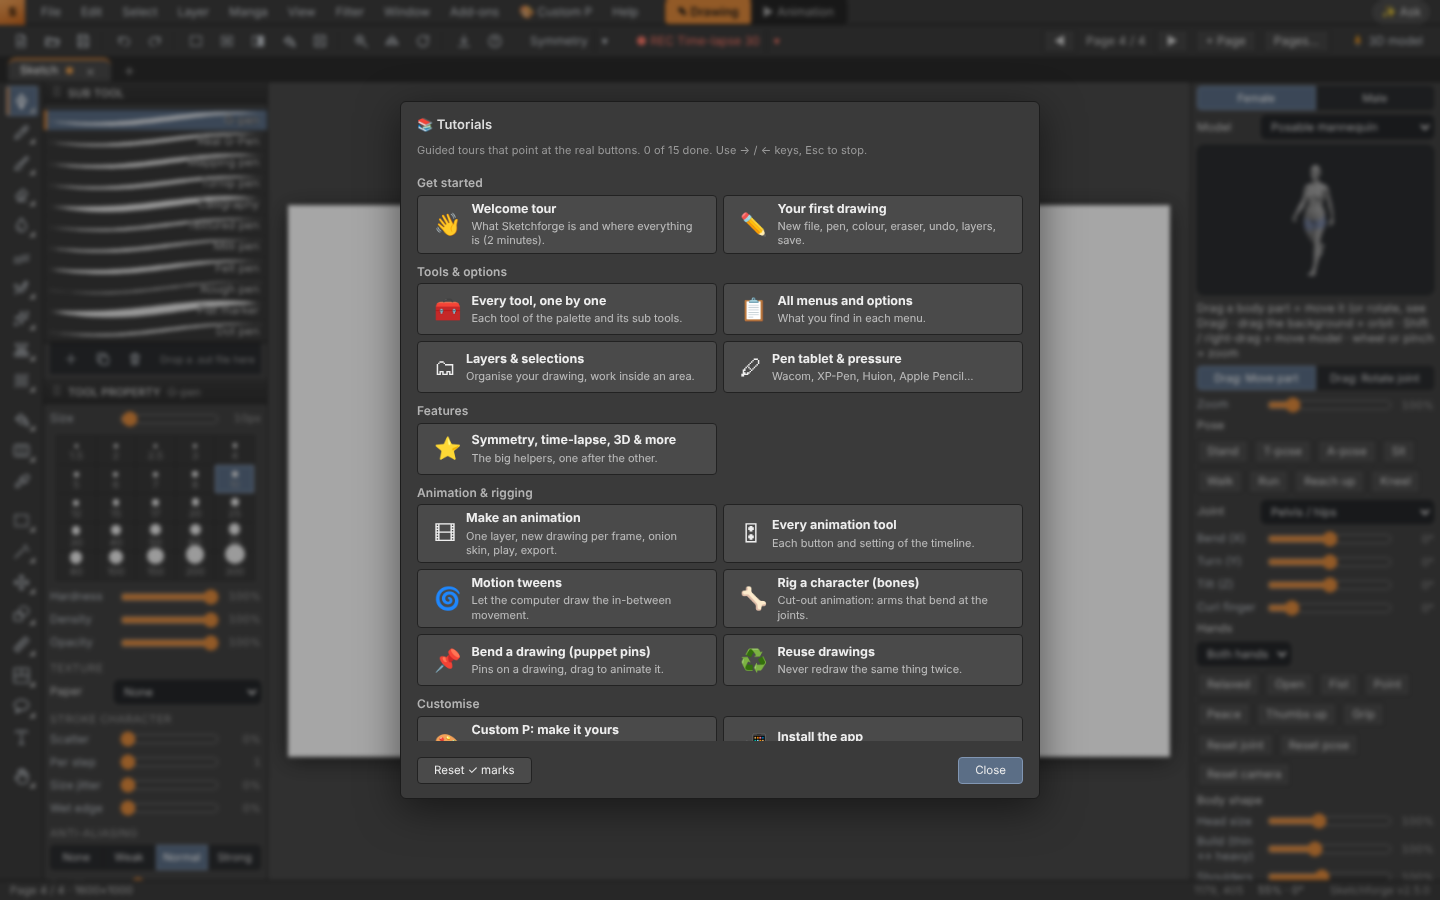
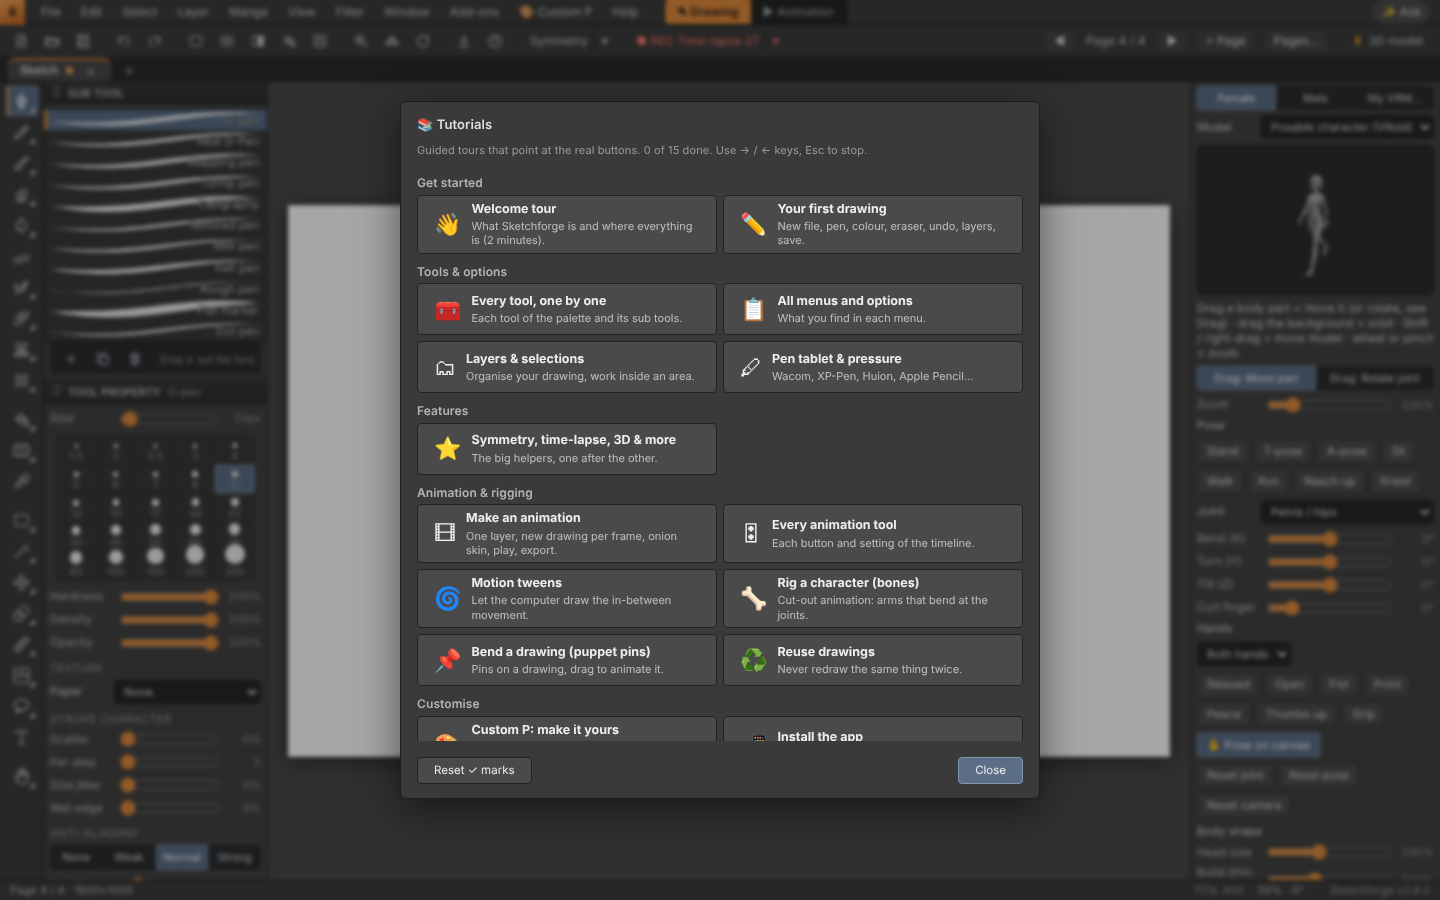
[release] Sketchforge 2.8.0: VRoid 3D characters, Load VRM, pose the 3D model on the canvas
Claude-Session: https://claude.ai/code/session_0146CUBEvuBvv8RiKvoGK6gw

diff --git a/app.js b/app.js
@@ -8126,7 +8126,7 @@ function markSel() {
   for (const p of M3.parts) {
     if (p.userData.rigged) {
       // tint the vertices that mostly follow the selected joint
-      const sel = p.userData.boneNames.indexOf(M3.sel), dom = p.userData.dom, col = p.geometry.attributes.color;
+      const sel = M3.selShown ? p.userData.boneNames.indexOf(M3.sel) : -1, dom = p.userData.dom, col = p.geometry.attributes.color;
       for (let i = 0; i < dom.length; i++) { const on = dom[i] === sel; col.setXYZ(i, on ? 0.62 : 1, on ? 0.76 : 1, on ? 1.18 : 1); }
       col.needsUpdate = true;
     } else if (p.material.emissive) p.material.emissive.setHex(p.userData.joint === M3.sel ? 0x2a4f8f : 0x000000);
@@ -8245,7 +8245,7 @@ function bindPoseSurface(cv, big) {
     M3.lastHit = null;
     const hit = pick(e, cv);
     drag = { x: e.clientX, y: e.clientY, mode: e.shiftKey || e.button === 2 ? 'pan' : hit ? 'joint' : 'orbit' };
-    if (hit && drag.mode === 'joint') { M3.sel = hit; markSel(); buildJointUI(); if (big) poseBarLabel(); }
+    if (hit && drag.mode === 'joint') { M3.sel = hit; M3.selShown = true; markSel(); buildJointUI(); if (big) poseBarLabel(); }
     // move mode: the grabbed point of the part follows the pointer (inverse kinematics); the hips move the whole model
     if (hit && drag.mode === 'joint' && M3.dragMode === 'move' && M3.lastHit && riggedMesh()) {
       if (hit === 'pelvis') drag.mode = 'pan';
@@ -8368,7 +8368,7 @@ function build3DPanel() {
   $('#m3dKind').onchange = e => {
     if (e.target.value === 'simple' || e.target.value === 'mannequin') { M3.kind = 'mannequin'; M3.style = e.target.value === 'simple' ? 'simple' : 'vroid'; if (M3.style === 'simple' && M3.gender === 'custom') M3.gender = 'female'; syncModelButtons(); rebuildModel(); fitModel(); return; }
     M3.kind = e.target.value; if (M3.kind === 'import' && !M3.imported) { pickFile('.glb,.gltf,.obj', f => importModelFile(f).catch(err => toast(err.message))); M3.kind = 'mannequin'; e.target.value = 'mannequin'; return; } rebuildModel(); fitModel(); };
-  $('#m3dJointSel').onchange = e => { M3.sel = e.target.value; markSel(); syncJointSliders(); render3D(); };
+  $('#m3dJointSel').onchange = e => { M3.sel = e.target.value; M3.selShown = true; markSel(); syncJointSliders(); render3D(); };
   ['X', 'Y', 'Z'].forEach(a => $('#m3d' + a).oninput = setJointEuler);
   $('#m3dResetJ').onclick = () => { const j = M3.joints[M3.sel]; if (j) { j.quaternion.identity(); syncJointSliders(); render3D(); } };
   $('#m3dResetAll').onclick = () => { for (const k in M3.joints) M3.joints[k].quaternion.identity(); M3.root.position.set(0, 0, 0); syncJointSliders(); render3D(); };

diff --git a/parts/p10y_3d.js b/parts/p10y_3d.js
@@ -170,7 +170,7 @@ function markSel() {
   for (const p of M3.parts) {
     if (p.userData.rigged) {
       // tint the vertices that mostly follow the selected joint
-      const sel = p.userData.boneNames.indexOf(M3.sel), dom = p.userData.dom, col = p.geometry.attributes.color;
+      const sel = M3.selShown ? p.userData.boneNames.indexOf(M3.sel) : -1, dom = p.userData.dom, col = p.geometry.attributes.color;
       for (let i = 0; i < dom.length; i++) { const on = dom[i] === sel; col.setXYZ(i, on ? 0.62 : 1, on ? 0.76 : 1, on ? 1.18 : 1); }
       col.needsUpdate = true;
     } else if (p.material.emissive) p.material.emissive.setHex(p.userData.joint === M3.sel ? 0x2a4f8f : 0x000000);
@@ -289,7 +289,7 @@ function bindPoseSurface(cv, big) {
     M3.lastHit = null;
     const hit = pick(e, cv);
     drag = { x: e.clientX, y: e.clientY, mode: e.shiftKey || e.button === 2 ? 'pan' : hit ? 'joint' : 'orbit' };
-    if (hit && drag.mode === 'joint') { M3.sel = hit; markSel(); buildJointUI(); if (big) poseBarLabel(); }
+    if (hit && drag.mode === 'joint') { M3.sel = hit; M3.selShown = true; markSel(); buildJointUI(); if (big) poseBarLabel(); }
     // move mode: the grabbed point of the part follows the pointer (inverse kinematics); the hips move the whole model
     if (hit && drag.mode === 'joint' && M3.dragMode === 'move' && M3.lastHit && riggedMesh()) {
       if (hit === 'pelvis') drag.mode = 'pan';
@@ -412,7 +412,7 @@ function build3DPanel() {
   $('#m3dKind').onchange = e => {
     if (e.target.value === 'simple' || e.target.value === 'mannequin') { M3.kind = 'mannequin'; M3.style = e.target.value === 'simple' ? 'simple' : 'vroid'; if (M3.style === 'simple' && M3.gender === 'custom') M3.gender = 'female'; syncModelButtons(); rebuildModel(); fitModel(); return; }
     M3.kind = e.target.value; if (M3.kind === 'import' && !M3.imported) { pickFile('.glb,.gltf,.obj', f => importModelFile(f).catch(err => toast(err.message))); M3.kind = 'mannequin'; e.target.value = 'mannequin'; return; } rebuildModel(); fitModel(); };
-  $('#m3dJointSel').onchange = e => { M3.sel = e.target.value; markSel(); syncJointSliders(); render3D(); };
+  $('#m3dJointSel').onchange = e => { M3.sel = e.target.value; M3.selShown = true; markSel(); syncJointSliders(); render3D(); };
   ['X', 'Y', 'Z'].forEach(a => $('#m3d' + a).oninput = setJointEuler);
   $('#m3dResetJ').onclick = () => { const j = M3.joints[M3.sel]; if (j) { j.quaternion.identity(); syncJointSliders(); render3D(); } };
   $('#m3dResetAll').onclick = () => { for (const k in M3.joints) M3.joints[k].quaternion.identity(); M3.root.position.set(0, 0, 0); syncJointSliders(); render3D(); };
